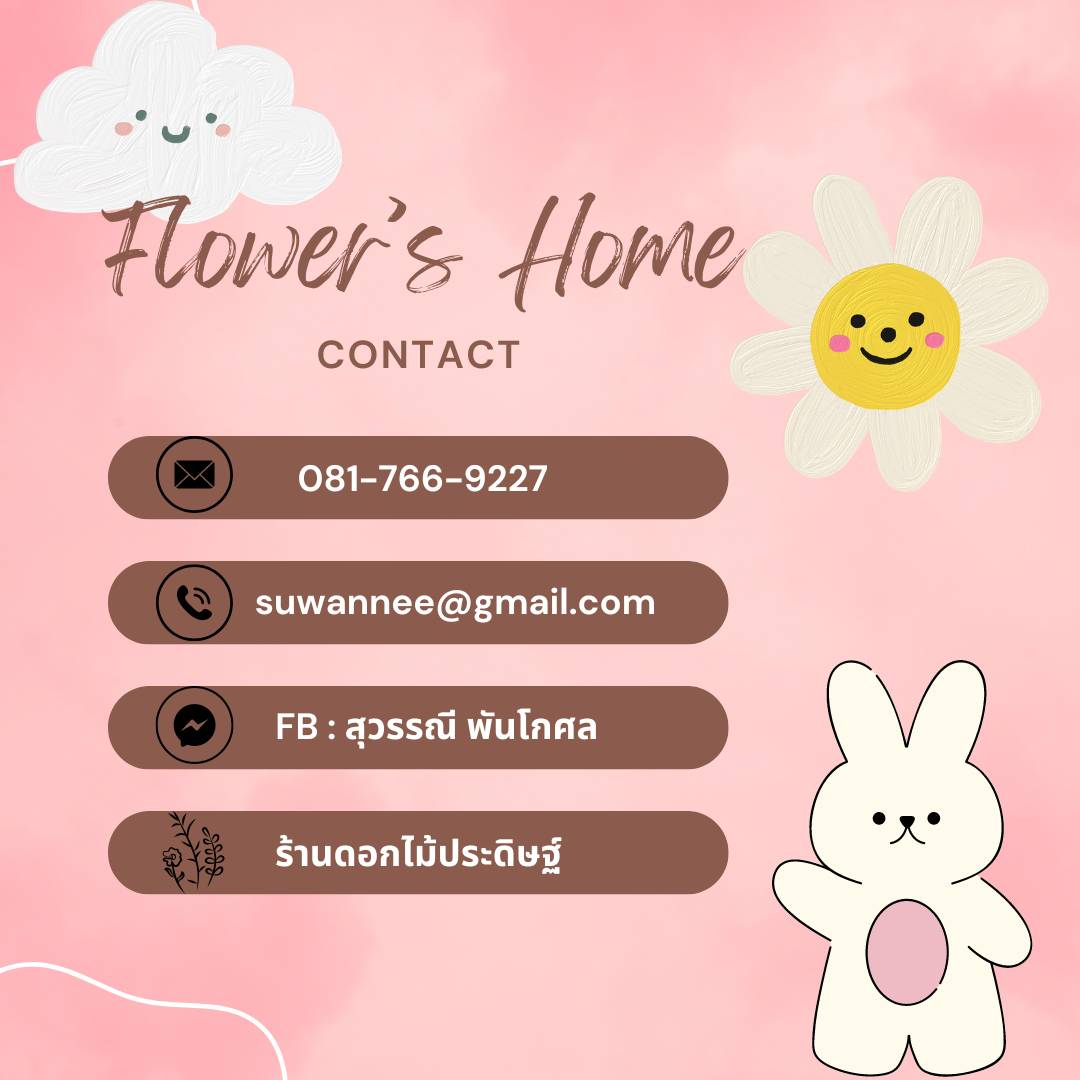
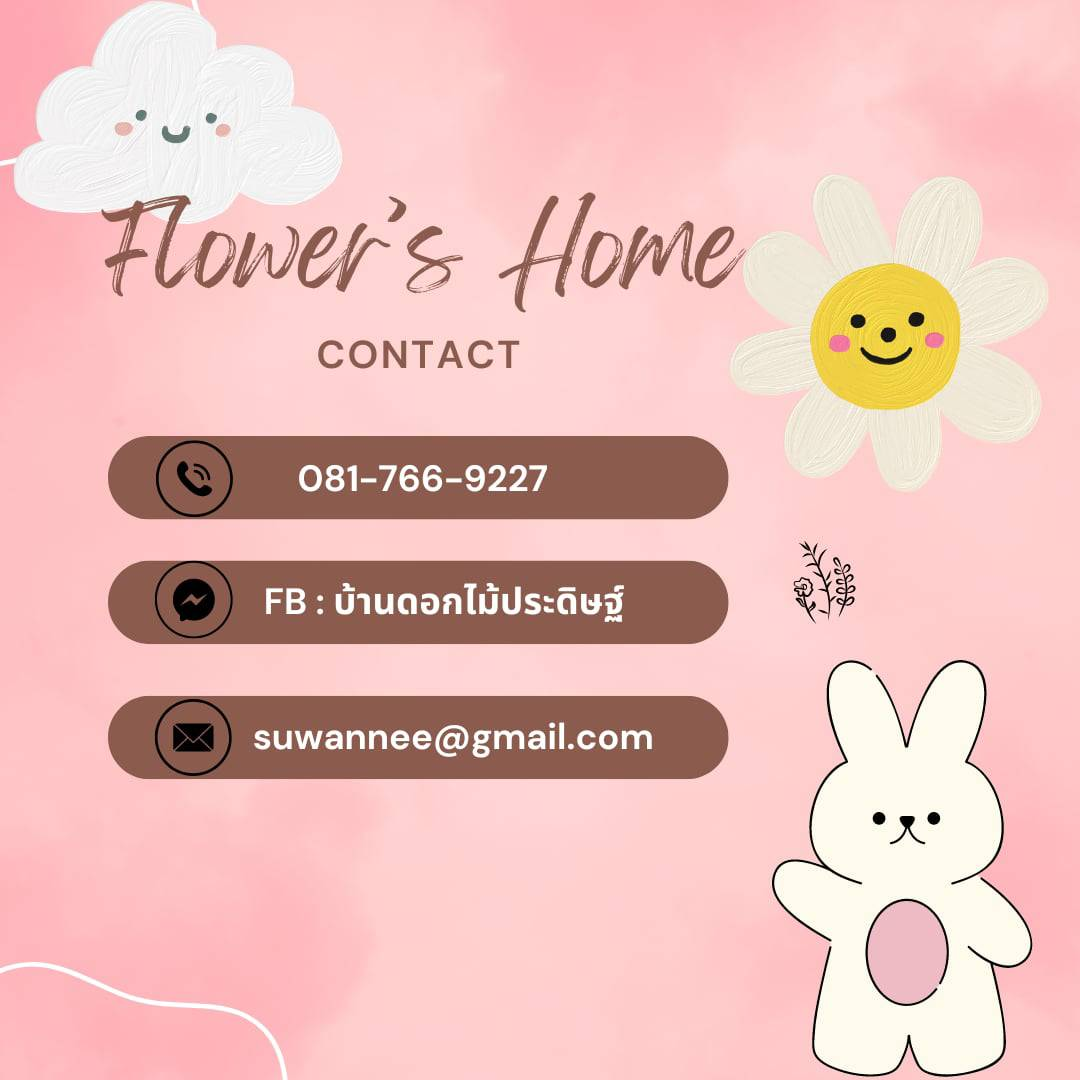
edit new contact

diff --git a/assets/css/style-contant.css b/assets/css/style-contant.css
@@ -1,33 +1,3 @@
-#contact {
-  width: 100%;
-  height: 100%;
-}
-
-.section-header {
-  text-align: center;
-  margin: 0 auto;
-  padding: 40px 0;
-  font: 300 60px 'Oswald', sans-serif;
-  color: #ff95c1;
-  text-transform: uppercase;
-  letter-spacing: 6px;
-}
-
-.contact-wrapper {
-  display: flex;
-  flex-direction: row;
-  justify-content: space-between;
-  margin: 0 auto;
-  padding: 20px;
-  position: relative;
-  max-width: 840px;
-}
-
-/* Begin Right Contact Page */
-.direct-contact-container {
-  max-width: 400px;
-}
-
 /* Location, Phone, Email Section */
 .contact-list {
   list-style-type: none;
@@ -37,17 +7,18 @@
 
 .list-item {
   line-height: 4;
-  color: #aaa;
+  color: #000000;
+  font-family: "Kanit", sans-serif;
 }
 
 .contact-text {
-  font: 300 18px 'Lato', sans-serif;
+  font: 300 18px 'Kanit', sans-serif;
   letter-spacing: 1.9px;
-  color: #bbb;
+  color: #000000;
 }
 
-.place {
-  margin-left: 62px;
+.facebook {
+  margin-left: 53px;
 }
 
 .phone {
@@ -59,14 +30,15 @@
 }
 
 .contact-text a {
-  color: #bbb;
+  color: #000000;
   text-decoration: none;
   transition-duration: 0.2s;
 }
 
 .contact-text a:hover {
-  color: #fff;
+  color: #fc99ae;
   text-decoration: none;
+  font-family: 'Kanit', sans-serif;
 }
 
 
@@ -126,16 +98,6 @@
   color: #000;
 }
 
-.copyright {
-  font: 200 14px 'Oswald', sans-serif;
-  color: #555;
-  letter-spacing: 1px;
-  text-align: center;
-}
-
-hr {
-  border-color: rgb(241, 106, 106);
-}
 
 /* Begin Media Queries*/
 @media screen and (max-width: 850px) {

diff --git a/contact.php b/contact.php
@@ -1,66 +1,42 @@
-<?php include('header.php'); ?> 
-<!-- <link href="assets/css/style-contant.css" rel="stylesheet"> -->
+<?php include('header.php'); ?>
+<link href="assets/css/style-contant.css" rel="stylesheet">
 
+<main id="main" >
 <section id="contact">
-<div class="container">
-  <h1 class="section-title">ติดต่อเราได้ที่..</h1>
-  <style>
-        .center-img {
-            display: block;
-            margin-left: auto;
-            margin-right: auto;
-            border-radius: 20px;
-            max-width: 500px;
-            height: 500px;
-        }
+  <div class="container">
+    <h1 class="section-title">ติดต่อเราได้ที่..</h1>
+    <style>
+      .center-img {
+        display: block;
+        margin-left: auto;
+        margin-right: auto;
+        border-radius: 20px;
+        max-width: 500px;
+        height: 500px;
+      }
     </style>
-     <a href="https://www.facebook.com/sooksomflowers"><img src="assets/img/contact-img.jpg"  class="center-img" alt=""></a>
-      <!-- <div class="direct-contact-container">
-
+    <div class="row">
+      <div class="col-6">
+        <a href="https://www.facebook.com/sooksomflowers"><img src="assets/img/contact-img.jpg" class="center-img"alt=""></a>
+      </div>
+      <div class="col-6">
         <ul class="contact-list">
-          <li class="list-item"><i class="fa fa-map-marker fa-2x"><span class="contact-text place">.......</span></i></li>
-          
-          <li class="list-item"><i class="fa fa-phone fa-2x"><span class="contact-text phone"><a href="tel:0000000000" title="โทร">0000000000</a></span></i></li>
-          
-          <li class="list-item"><i class="fa fa-envelope fa-2x"><span class="contact-text gmail"><a href="mailto:#" title="Send me an email">flowerhome@gmail.com</a></span></i></li>
-          
+          <li class="list-item"><i class="fa fa-phone fa-2x"><span class="contact-text phone"><a href="tel:0817669227">081-766-9227</a></span></i></li>
+          <li class="list-item"><i class="fa fa-envelope fa-2x"><span class="contact-text gmail"><a href="mailto:#">suwannee@gmail.com</a></span></i></li>
+          <li class="list-item"><i class="fa fa-facebook-official fa-2x"><span class="contact-text facebook"><a href="https://www.facebook.com/sooksomflowers">บ้านดอกไม้ประดิษฐ์</a></span></i></li>
         </ul>
-
-        <hr>
-        <ul class="social-media-list">
-          <li><a href="#" target="_blank" class="contact-icon">
-            <i class="fa fa-facebook" aria-hidden="true"></i></a>
-          </li>
-          <li><a href="#" target="_blank" class="contact-icon">
-            <i class="fa fa-line" aria-hidden="true"></i></a>
-          </li>
-          <li><a href="#" target="_blank" class="contact-icon">
-            <i class="fa fa-wedsite" aria-hidden="true"></i></a>
-          </li>
-          <li><a href="#" target="_blank" class="contact-icon">
-            <i class="fa fa-instagram" aria-hidden="true"></i></a>
-          </li>       
-        </ul>
-        <hr>
-      </div> -->
-
       </div>
-  
+    </div>
 </section>
+</div>
+<div class="map">
+  <iframe style="border:0; width: 100%; height: 350px;"
+    src="https://maps.google.com/maps?width=100%25&amp;height=600&amp;hl=en&amp;q=7.61557797015850,100.0809003208509+(My%20Business%20Name)&amp;t=k&amp;z=19&amp;ie=UTF8&amp;iwloc=B&amp;output=embed"
+    frameborder="0" allowfullscreen loading="lazy" referrerpolicy="no-referrer-when-downgrade"></iframe>
+</div>
+</section><!-- End Contact Section -->
 
-       <hr>
+</main><!-- End #main -->
 
-      </div>
 
-      <div class="map">
-        <iframe style="border:0; width: 100%; height: 350px;" src="https://maps.google.com/maps?width=100%25&amp;height=600&amp;hl=en&amp;q=7.61557797015850,100.0809003208509+(My%20Business%20Name)&amp;t=k&amp;z=19&amp;ie=UTF8&amp;iwloc=B&amp;output=embed" frameborder="0" allowfullscreen loading="lazy" referrerpolicy="no-referrer-when-downgrade"></iframe>
-      </div>
-            <div class="container mt-5">
-
-      </div>
-    </section><!-- End Contact Section -->
-
-  </main><!-- End #main -->
-
- 
-  <?php include('footer.php'); ?> 
+<?php include('footer.php'); ?>
